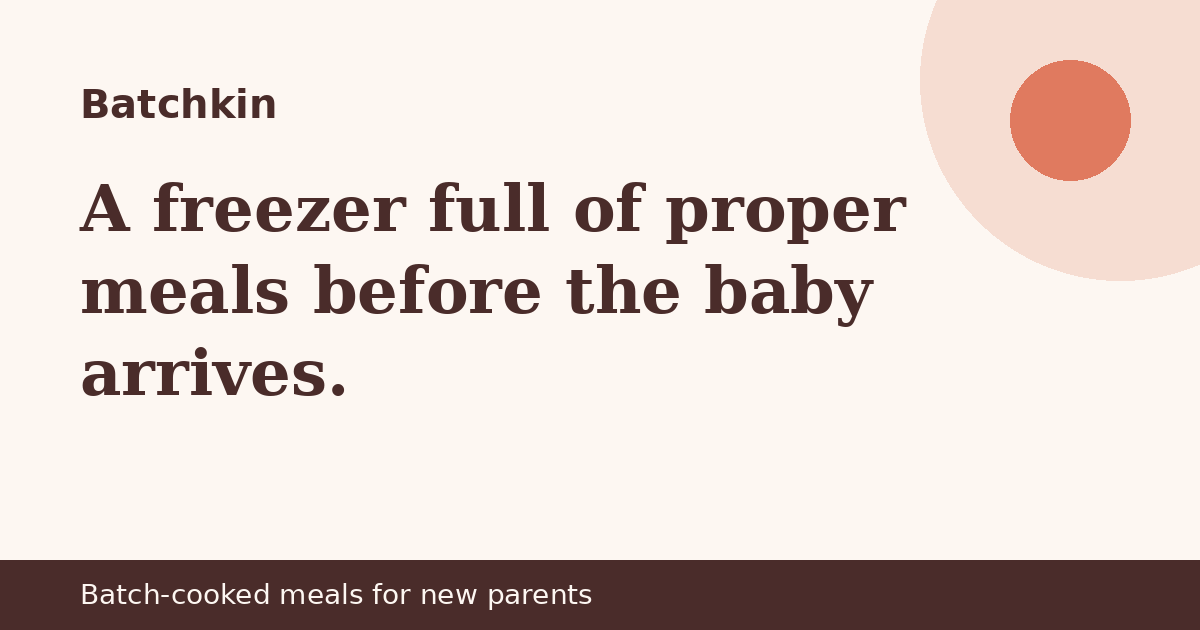
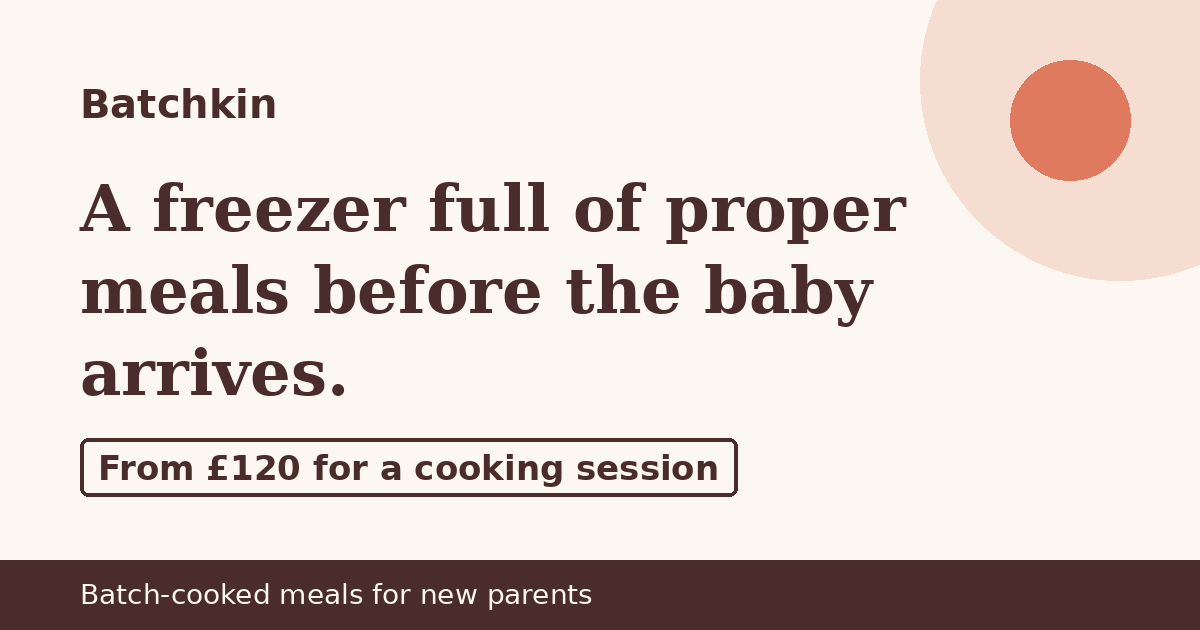
Publish site 2026-10-21 08:26 BST

Changed region(s): [[0.0617, 0.6937, 0.6167, 0.8143]]

diff --git a/index.html b/index.html
@@ -3,7 +3,7 @@
 <head>
 <meta charset="utf-8">
 <meta name="viewport" content="width=device-width, initial-scale=1">
-<meta http-equiv="Content-Security-Policy" content="default-src 'self'; img-src 'self' data: https://localreplyloop.goatcounter.com; style-src 'self'; script-src 'self'; font-src 'self'; connect-src 'self' https://formsubmit.co; form-action 'self'; base-uri 'self'; object-src 'none'">
+<meta http-equiv="Content-Security-Policy" content="default-src 'self'; img-src 'self' data: https://localreplyloop.goatcounter.com; style-src 'self'; script-src 'self'; font-src 'self'; connect-src 'self'; form-action 'self'; base-uri 'self'; object-src 'none'">
 <meta name="referrer" content="strict-origin-when-cross-origin">
 <title>Batchkin: A freezer full of proper meals before the baby arrives</title>
 <meta name="description" content="A home cook prepares a week of freezer-ready meals in your kitchen, labelled with contents and allergens.">
@@ -21,21 +21,14 @@
 </head>
 <body>
 <a class="skip" href="#main">Skip to content</a>
-<header><div class="wrap top"><a class="brand" href="./"><svg viewBox="0 0 64 64" aria-hidden="true" width="34" height="34"><rect width="64" height="64" rx="16" fill="#4A2C2A"/><text x="32" y="43" text-anchor="middle" font-family="Georgia, serif" font-weight="700" font-size="30" fill="#FDF7F2">B</text><circle cx="50" cy="50" r="6" fill="#E07A5F"/></svg>Batchkin</a><nav aria-label="Primary"><a href="#how">How it works</a><a href="#faq">Questions</a><a href="#contact">Contact</a></nav></div></header><section class="hero"><div class="wrap"><div><span class="draft">Taking enquiries ahead of launch; no bookings are confirmed yet. We&#x27;ll reply about availability.</span><br><span class="eyebrow">Local service · pre-launch · Batch-cooked meals for new parents</span><h1>A freezer full of proper meals before the baby arrives.</h1><p class="lede">We cook a week or two of freezer-ready dinners in your own kitchen, label every portion with its contents and allergens, and leave the kitchen clean. It also works as a gift from grandparents and friends.</p><div class="ctas"><a class="btn" href="#contact" data-cta="hero">Send an enquiry</a><a class="btn ghost" href="#faq" data-cta="hero-secondary">Questions</a></div></div><div class="art"><svg viewBox="0 0 400 400" role="img" aria-label="Decorative pattern" class="motif" preserveAspectRatio="xMidYMid slice"><rect x="30" y="330" width="58" height="40" fill="#F6DDD2"/><rect x="88" y="278" width="58" height="92" fill="#4A2C2A"/><rect x="146" y="226" width="58" height="144" fill="#F6DDD2"/><rect x="204" y="174" width="58" height="196" fill="#4A2C2A"/><rect x="262" y="122" width="58" height="248" fill="#F6DDD2"/><rect x="320" y="70" width="58" height="300" fill="#E07A5F"/></svg></div></div></section>
+<header><div class="wrap top"><a class="brand" href="./"><svg viewBox="0 0 64 64" aria-hidden="true" width="34" height="34"><rect width="64" height="64" rx="16" fill="#4A2C2A"/><text x="32" y="43" text-anchor="middle" font-family="Georgia, serif" font-weight="700" font-size="30" fill="#FDF7F2">B</text><circle cx="50" cy="50" r="6" fill="#E07A5F"/></svg>Batchkin</a><nav aria-label="Primary"><a href="#how">How it works</a><a href="#faq">Questions</a><a href="#contact">Contact</a></nav></div></header>
 <main id="main">
+<section class="hero"><div class="wrap"><div><span class="draft">Taking enquiries ahead of launch. No bookings are confirmed yet.</span><br><span class="eyebrow">Local service · pre-launch · Batch-cooked meals for new parents</span><h1>A freezer full of proper meals before the baby arrives.</h1><p class="lede">Once launched, we&#x27;ll cook a week or two of freezer-ready dinners in your own kitchen, label every portion with its contents and allergens, and leave the kitchen clean. It also works as a gift from grandparents and friends.</p><div class="ctas"><a class="btn" href="#contact" data-cta="hero">Send an enquiry</a><a class="btn ghost" href="#faq" data-cta="hero-secondary">Questions</a></div></div><div class="art"><svg viewBox="0 0 400 400" aria-hidden="true" focusable="false" class="motif"><rect x="100" y="300" width="200" height="64" rx="10" fill="#4A2C2A"/><rect x="88" y="288" width="224" height="16" rx="8" fill="#E07A5F"/><rect x="100" y="220" width="200" height="64" rx="10" fill="#F6DDD2"/><rect x="88" y="208" width="224" height="16" rx="8" fill="#E07A5F"/><rect x="100" y="140" width="200" height="64" rx="10" fill="#4A2C2A"/><rect x="88" y="128" width="224" height="16" rx="8" fill="#E07A5F"/><path d="M160 112 q-14 -20 0 -40 q14 -20 0 -40" fill="none" stroke="#4A2C2A" stroke-width="7" stroke-linecap="round" stroke-linejoin="round"/><path d="M200 112 q-14 -20 0 -40 q14 -20 0 -40" fill="none" stroke="#4A2C2A" stroke-width="7" stroke-linecap="round" stroke-linejoin="round"/><path d="M240 112 q-14 -20 0 -40 q14 -20 0 -40" fill="none" stroke="#4A2C2A" stroke-width="7" stroke-linecap="round" stroke-linejoin="round"/></svg></div></div></section>
 <section class="tint" id="how"><div class="wrap"><span class="eyebrow">How it works</span><h2>A home cook prepares a week of freezer-ready meals in your kitchen, labelled with contents and allergens.</h2><div class="steps"><div class="step"><h3>Choose a menu</h3><p>Pick from family dishes, with dietary needs and dislikes noted.</p></div><div class="step"><h3>We shop and cook</h3><p>Ingredients at cost with receipts. Cooking takes an afternoon.</p></div><div class="step"><h3>Labelled and frozen</h3><p>Every tub dated and labelled against the 14 allergens.</p></div></div></div></section>
-<section><div class="wrap"><span class="eyebrow">Who it is for</span><h2>For expecting parents and families buying a practical gift for them.</h2><div class="points"><div class="point"><h3>Allergens labelled</h3><p>Each portion marked against the 14 UK allergens.</p></div><div class="point"><h3>Cooked in your kitchen</h3><p>No commercial kitchen markup.</p></div><div class="point"><h3>Works as a gift</h3><p>Others can book it for you.</p></div></div></div></section>
-<section class="tint" id="price"><div class="wrap"><span class="eyebrow">Prices</span><div class="pricebox"><p class="price">From £120 for a cooking session plus ingredients at cost (guide price)</p><p>Guide price. Taking enquiries ahead of launch; no bookings are confirmed yet. We&#x27;ll confirm a fixed price and availability by email. Nothing is sold or paid for on this website.</p></div></div></section>
+<section><div class="wrap"><span class="eyebrow">Who it is for</span><h2>For expecting parents and families buying a practical gift for them.</h2><div class="points"><div class="point"><h3>Allergens labelled</h3><p>Each portion labelled with the 14 UK allergens it contains. Cooked in a home kitchen, so we can&#x27;t rule out traces.</p></div><div class="point"><h3>Cooked in your kitchen</h3><p>No commercial kitchen markup.</p></div><div class="point"><h3>Works as a gift</h3><p>Others can book it for you.</p></div></div></div></section>
+<section class="tint" id="price"><div class="wrap"><span class="eyebrow">Prices</span><div class="pricebox"><p class="price">From £120 for a cooking session plus ingredients at cost (guide price)</p><p>Guide price. Taking enquiries ahead of launch. No bookings are confirmed yet. Price and availability aren’t confirmed yet. Nothing is sold or paid for on this website.</p></div></div></section>
 <section id="faq"><div class="wrap"><span class="eyebrow">Questions</span><h2>Common questions</h2><details><summary>Are you registered as a food business?</summary><p>Not yet. We&#x27;re taking enquiries ahead of launch and won&#x27;t cook for anyone until registration with the local council is in place, as UK rules require.</p></details><details><summary>Can you do vegetarian, vegan or halal?</summary><p>Yes. Tell us in the form.</p></details><details><summary>Is it suitable for severe allergies?</summary><p>Your kitchen isn&#x27;t allergen-controlled, so we can&#x27;t guarantee no cross-contact. Talk to us first.</p></details><p class="fine" style="margin-top:18px">Batchkin is a home cooking service. We do not provide nutrition or medical advice.</p></div></section>
-<section class="tint" id="contact"><div class="wrap contact-grid"><div><span class="eyebrow">Contact</span><h2>Send an enquiry</h2><p>Batchkin is new and run by one person. Every message is read and answered by email, usually within two working days.</p><p>Email: <a href="mailto:localreply+batchkin@agentmail.to">localreply+batchkin@agentmail.to</a></p></div><form class="form" data-contact data-formsubmit="localreply+batchkin@agentmail.to" data-email="localreply+batchkin@agentmail.to" data-subject="Batchkin enquiry" novalidate>
-<div><label for="f-name">Your name</label><input id="f-name" name="name" autocomplete="name" required></div>
-<div><label for="f-email">Email</label><input id="f-email" name="email" type="email" autocomplete="email" required></div>
-<div><label for="f-postcode">Postcode or town</label><input id="f-postcode" name="postcode" autocomplete="postal-code"></div><div><label for="f-plan">About</label><select id="f-plan" name="plan"><option value="One week of meals">One week of meals</option><option value="Two weeks of meals">Two weeks of meals</option><option value="Buying as a gift">Buying as a gift</option></select></div>
-<div><label for="f-message">Message</label><textarea id="f-message" name="message"></textarea></div>
-<p class="draft">Taking enquiries ahead of launch; no bookings are confirmed yet. We&#x27;ll reply about availability.</p><p class="hint">Your message goes to our inbox through FormSubmit (formsubmit.co), our form-delivery provider. If that fails, your own email app opens instead. See our <a href="privacy.html">privacy notice</a>.</p>
-<button class="btn" type="submit">Send an enquiry</button>
-<p class="form-status" role="status" aria-live="polite"></p>
-</form></div></section>
+<section class="tint" id="contact"><div class="wrap contact-grid"><div><span class="eyebrow">Contact</span><h2>Send an enquiry</h2><p>Batchkin is new and run by one person. Messages go to our inbox. We can’t promise a reply or a timeframe yet.</p><p>Please don&#x27;t send medical or allergy details, or a baby&#x27;s or child&#x27;s details, by email. Just tell us you have dietary needs and we&#x27;ll discuss them when we speak.</p><p>Email: <a href="mailto:localreply+batchkin@agentmail.to">localreply+batchkin@agentmail.to</a></p></div><div class="form contact-mail"><p><a class="btn" href="mailto:localreply+batchkin@agentmail.to?subject=%5BBatchkin%5D%20Enquiry" data-cta="enquire">Email Batchkin</a></p><p class="draft">Taking enquiries ahead of launch. No bookings are confirmed yet.</p><p class="hint">This opens your own email app. Nothing is sent through this website. See our <a href="privacy.html">privacy notice</a>.</p></div></div></section>
 </main><footer><div class="wrap"><p>Operated by a UK sole trader trading as Batchkin. Contact: localreply+batchkin@agentmail.to. Postal address available on written request.</p>
 <p><a href="privacy.html">Privacy</a><a href="terms.html">Terms</a><a href="./#contact">Contact</a></p>
 <p class="fine">Batchkin is a home cooking service. We do not provide nutrition or medical advice.</p></div></footer>

diff --git a/assets/site.css b/assets/site.css
@@ -1,4 +1,4 @@
-:root{--ink:#4A2C2A;--paper:#FDF7F2;--acc:#E07A5F;--acc-text:#C14626;--on-acc:#111111;--soft:#F6DDD2;--on-ink:#FDF7F2;--r:22px;--br:22px;--head:Georgia, 'Times New Roman', serif;--body:system-ui, -apple-system, 'Segoe UI', Roboto, sans-serif}
+:root{--ink:#4A2C2A;--paper:#FDF7F2;--acc:#E07A5F;--acc-text:#A03A1F;--on-acc:#111111;--acc-btn:#E07A5F;--soft:#F6DDD2;--on-ink:#FDF7F2;--r:22px;--br:22px;--head:Georgia, 'Times New Roman', serif;--body:system-ui, -apple-system, 'Segoe UI', Roboto, sans-serif}
 *,*::before,*::after{box-sizing:border-box}html{scroll-behavior:smooth}@media (prefers-reduced-motion:reduce){html{scroll-behavior:auto}*{transition:none!important}}
 body{margin:0;font-family:var(--body);color:var(--ink);background:var(--paper);line-height:1.6;font-size:17px;-webkit-font-smoothing:antialiased}
 h1,h2,h3{font-family:var(--head);line-height:1.15;margin:0 0 .5em;letter-spacing:-.01em}h1{font-size:clamp(2.1rem,5vw,3.6rem)}h2{font-size:clamp(1.5rem,3vw,2.2rem)}h3{font-size:1.15rem}
@@ -7,11 +7,11 @@ p{margin:0 0 1em}a{color:var(--ink);text-decoration-color:var(--acc);text-underl
 :focus-visible{outline:3px solid var(--acc);outline-offset:2px}
 .top{display:flex;align-items:center;justify-content:space-between;padding:18px 0;gap:16px}.brand{display:flex;align-items:center;gap:10px;font-family:var(--head);font-weight:700;font-size:1.25rem;text-decoration:none}
 .top nav a{margin-left:18px;font-size:.95rem;text-decoration:none}.top nav a:hover{text-decoration:underline}
-.btn{display:inline-block;background:var(--acc);color:var(--on-acc);padding:13px 22px;border-radius:var(--br);font-weight:600;text-decoration:none;border:2px solid var(--acc);cursor:pointer;font:inherit;font-weight:600}
-.btn:hover{filter:brightness(.94)}.btn.ghost{background:transparent;color:var(--ink);border-color:var(--ink)}
+.btn{display:inline-block;background:var(--acc-btn);color:var(--on-acc);padding:13px 22px;border-radius:var(--br);font-weight:600;text-decoration:none;border:2px solid var(--acc-btn);cursor:pointer;font:inherit;font-weight:600}
+.btn:hover{filter:none;box-shadow:inset 0 0 0 2px currentColor}.btn.ghost{background:transparent;color:var(--ink);border-color:var(--ink)}
 .eyebrow{display:inline-block;font-size:.8rem;letter-spacing:.12em;text-transform:uppercase;font-weight:600;color:var(--acc-text);margin-bottom:12px}
 .hero{padding:48px 0 64px}.hero .lede{font-size:1.15rem;max-width:40em}.ctas{display:flex;gap:12px;flex-wrap:wrap;margin-top:22px}
-.motif{width:100%;height:auto;max-width:420px;display:block}
+.motif{width:100%;height:auto;max-width:420px;display:block}.art{margin:0}
 .draft{display:inline-block;background:var(--soft);border:1px dashed var(--ink);padding:3px 10px;border-radius:999px;font-size:.82rem;font-weight:600;margin-bottom:14px}
 section{padding:56px 0}.tint{background:var(--soft)}
 .steps{display:grid;grid-template-columns:repeat(auto-fit,minmax(220px,1fr));gap:22px;counter-reset:s}
@@ -22,11 +22,11 @@ section{padding:56px 0}.tint{background:var(--soft)}
 details{border-bottom:1px solid color-mix(in srgb,var(--ink) 18%,transparent);padding:14px 0}summary{cursor:pointer;font-weight:600}details p{margin-top:10px}
 .form{display:grid;gap:14px;max-width:620px}.form label{font-weight:600;font-size:.95rem;display:block;margin-bottom:4px}
 .form input,.form textarea,.form select{width:100%;padding:12px;border:1.5px solid color-mix(in srgb,var(--ink) 40%,transparent);border-radius:calc(var(--r)/2);font:inherit;background:#fff;color:#111}
-.form textarea{min-height:120px}.hint,.fine{font-size:.88rem;opacity:.85}.form-status{font-weight:600}
-.contact-grid{display:grid;grid-template-columns:1fr 1.2fr;gap:40px}@media(max-width:800px){.contact-grid{grid-template-columns:1fr}.top nav{display:none}}
+.form textarea{min-height:120px}.hint,.fine{font-size:.88rem}.form-status{font-weight:600}
+.contact-grid{display:grid;grid-template-columns:1fr 1.2fr;gap:40px}@media(max-width:800px){.contact-grid{grid-template-columns:1fr}.top nav a:not([href="#contact"]){display:none}.top nav a{margin-left:0;padding:10px 0;font-weight:600}}
 footer{padding:36px 0 48px;font-size:.9rem;border-top:1px solid color-mix(in srgb,var(--ink) 15%,transparent)}footer a{margin-right:14px}
 .tool{background:var(--paper);border:2px solid var(--ink);border-radius:var(--r);padding:26px;max-width:640px}.tool .row{display:grid;grid-template-columns:1fr 140px;gap:12px;align-items:center;margin-bottom:10px}
 .tool input[type=number]{padding:10px;border:1.5px solid var(--ink);border-radius:8px;font:inherit;width:100%}.result{margin-top:16px;padding:16px;background:var(--soft);border-radius:calc(var(--r)/2);min-height:3em}
 .check h3{margin-top:18px}.check label{display:flex;gap:10px;align-items:flex-start;padding:6px 0}.check input{width:20px;height:20px;accent-color:var(--acc)}
 .legal{max-width:760px}.legal h2{font-size:1.3rem;margin-top:1.6em}
-.hero .wrap{display:grid;grid-template-columns:1.25fr .85fr;gap:48px;align-items:center}@media(max-width:800px){.hero .wrap{grid-template-columns:1fr}.hero .art{max-width:280px}}
+.hero .wrap{display:grid;grid-template-columns:1.25fr .85fr;gap:48px;align-items:center}@media(max-width:800px){.hero .wrap{grid-template-columns:1fr}.hero .art{max-width:180px;margin-top:-8px}}

diff --git a/privacy.html b/privacy.html
@@ -3,7 +3,7 @@
 <head>
 <meta charset="utf-8">
 <meta name="viewport" content="width=device-width, initial-scale=1">
-<meta http-equiv="Content-Security-Policy" content="default-src 'self'; img-src 'self' data: https://localreplyloop.goatcounter.com; style-src 'self'; script-src 'self'; font-src 'self'; connect-src 'self' https://formsubmit.co; form-action 'self'; base-uri 'self'; object-src 'none'">
+<meta http-equiv="Content-Security-Policy" content="default-src 'self'; img-src 'self' data: https://localreplyloop.goatcounter.com; style-src 'self'; script-src 'self'; font-src 'self'; connect-src 'self'; form-action 'self'; base-uri 'self'; object-src 'none'">
 <meta name="referrer" content="strict-origin-when-cross-origin">
 <title>Privacy notice | Batchkin</title>
 <meta name="description" content="Privacy notice for Batchkin.">
@@ -21,13 +21,13 @@
 </head>
 <body>
 <a class="skip" href="#main">Skip to content</a>
-<header><div class="wrap top"><a class="brand" href="./"><svg viewBox="0 0 64 64" aria-hidden="true" width="34" height="34"><rect width="64" height="64" rx="16" fill="#4A2C2A"/><text x="32" y="43" text-anchor="middle" font-family="Georgia, serif" font-weight="700" font-size="30" fill="#FDF7F2">B</text><circle cx="50" cy="50" r="6" fill="#E07A5F"/></svg>Batchkin</a><nav aria-label="Primary"><a href="#how">How it works</a><a href="#faq">Questions</a><a href="#contact">Contact</a></nav></div></header><main id="main"><section><div class="wrap legal"><h1>Privacy notice</h1><p class="fine">Last updated 19 October 2026</p>
+<header><div class="wrap top"><a class="brand" href="./"><svg viewBox="0 0 64 64" aria-hidden="true" width="34" height="34"><rect width="64" height="64" rx="16" fill="#4A2C2A"/><text x="32" y="43" text-anchor="middle" font-family="Georgia, serif" font-weight="700" font-size="30" fill="#FDF7F2">B</text><circle cx="50" cy="50" r="6" fill="#E07A5F"/></svg>Batchkin</a><nav aria-label="Primary"><a href="#how">How it works</a><a href="#faq">Questions</a><a href="#contact">Contact</a></nav></div></header><main id="main"><section><div class="wrap legal"><h1>Privacy notice</h1><p class="fine">Last updated 20 October 2026</p>
 <p><span>Operated by a UK sole trader trading as Batchkin. Contact: localreply+batchkin@agentmail.to. Postal address available on written request.</span> We are the controller for the personal data described here. For anything in this notice, email <a href="mailto:localreply+batchkin@agentmail.to">localreply+batchkin@agentmail.to</a> with “Batchkin” in the subject line.</p>
-<h2>What we collect</h2><p>If you use the form or email us, we receive your name, email address, anything you write in your message and, if you give it, your postcode or town. We use it only to reply to you and, if you ask for it, to deal with your enquiry.</p>
+<h2>What we collect</h2><p>If you email us, we receive your name, email address, anything you write in your message and, if you give it, your postcode or town. We use it only to reply to you and, if you ask for it, to deal with your enquiry.</p>
 <h2>Lawful basis</h2><p>Replying to an enquiry you send us is in our legitimate interests, or steps taken at your request before any agreement (UK GDPR Article 6(1)(f) and 6(1)(b)).</p>
-<h2>Who processes it for us</h2><p>FormSubmit (formsubmit.co) delivers form messages to our inbox. AgentMail (agentmail.to) hosts the inbox. GitHub Pages hosts this website and may log technical data such as IP addresses for security. Some of these providers process data outside the UK under their own safeguards.</p>
+<h2>Who processes it for us</h2><p>AgentMail (agentmail.to) hosts our inbox. GitHub Pages hosts this website and may log technical data such as IP addresses for security. Some of these providers process data outside the UK under their own safeguards.</p>
 <h2>Cookies and analytics</h2><p>We set no cookies. We count page views with GoatCounter, which records the page, referrer and screen size but no cookies and no personal profile. It does not run if your browser sends Do Not Track or Global Privacy Control.</p>
-<h2>How long we keep it</h2><p>We keep enquiry emails for up to 12 months after our last contact, unless you become a customer, in which case we keep records as the law requires.</p>
+<h2>How long we keep it</h2><p>We delete enquiry and order data 30 days after our last contact or after delivery. We keep only the basic order record that tax law requires.</p>
 <h2>Your rights</h2><p>You can ask for a copy of your data, ask us to correct or delete it, or object to how we use it, by emailing <a href="mailto:localreply+batchkin@agentmail.to">localreply+batchkin@agentmail.to</a>. You can complain to the Information Commissioner's Office (ico.org.uk).</p></div></section></main><footer><div class="wrap"><p>Operated by a UK sole trader trading as Batchkin. Contact: localreply+batchkin@agentmail.to. Postal address available on written request.</p>
 <p><a href="privacy.html">Privacy</a><a href="terms.html">Terms</a><a href="./#contact">Contact</a></p>
 <p class="fine">Batchkin is a home cooking service. We do not provide nutrition or medical advice.</p></div></footer>

diff --git a/_shared/kit.js b/_shared/kit.js
@@ -69,24 +69,8 @@
     form.addEventListener("submit", function (e) {
       e.preventDefault();
       if (!form.reportValidity()) return;
-      // 2026-10-14: if data-formsubmit is set, deliver via FormSubmit.co straight to the brand inbox; mailto stays as fallback.
-      var fsTok = form.getAttribute("data-formsubmit");
-      if (fsTok && !form.__fsFallback && window.fetch) {
-        var fd = new FormData(form), payload = {}, st = form.querySelector("[role=status]");
-        fd.forEach(function (v, k) { if (k !== "consent") payload[k] = String(v); });
-        payload._subject = (form.getAttribute("data-subject") || "Enquiry") + (payload.business ? " — " + payload.business : "");
-        if (payload.email) payload._replyto = payload.email;
-        payload._captcha = "false"; payload._template = "table";
-        fetch("https://formsubmit.co/ajax/" + fsTok, { method: "POST", headers: { "Content-Type": "application/json", "Accept": "application/json" }, body: JSON.stringify(payload) })
-          .then(function (r) { return r.json(); })
-          .then(function (j) {
-            if (String(j.success) !== "true") throw new Error("fs");
-            if (st) { st.textContent = "Thanks" + (payload.name ? ", " + payload.name.trim().split(" ")[0] : "") + " — your message has been sent. We reply by email."; st.classList.add("is-visible"); }
-            track("contact_sent", { plan: payload.plan || null }); form.reset();
-          })
-          .catch(function () { form.__fsFallback = true; if (st) { st.textContent = "Sending didn't work — opening your email app instead."; st.classList.add("is-visible"); } form.requestSubmit ? form.requestSubmit() : form.dispatchEvent(new Event("submit", { cancelable: true })); });
-        return;
-      }
+      // The form only composes an email
+      // in the visitor's own mail app; nothing is sent through any third-party form processor.
       var to = form.getAttribute("data-email") || cfg.contactEmail;
       var data = new FormData(form);
       var name = (data.get("name") || "").toString().trim();

diff --git a/_shared/kit.css b/_shared/kit.css
@@ -73,6 +73,7 @@ p { margin: 0; }
 .mobile-nav.is-open { display: block; }
 .mobile-nav a { display: flex; align-items: center; min-height: 52px; padding: 0 1.25rem; color: var(--text); text-decoration: none; font-weight: 500; border-bottom: 1px solid var(--line); }
 .mobile-nav .btn { margin: 1rem 1.25rem 1.25rem; display: flex; }
+.mobile-nav .btn--primary, .mobile-nav .btn--primary:hover { color: #fff; }
 @media (min-width: 60rem) {
   .nav { display: flex; }
   .site-header .header-cta { display: inline-flex; margin-left: .75rem; }
@@ -329,3 +330,8 @@ html[data-paused="true"] [data-cta="checkout"] { pointer-events: none; opacity: 
 @media (min-width: 60rem) { .pricing.pricing--single { grid-template-columns: 1fr; } }
 .tier-more { max-width: 64rem; margin: 1.25rem auto 0; text-align: center; color: var(--muted); font-size: .9375rem; line-height: 1.6; }
 .tier-more a { font-weight: 600; white-space: nowrap; }
+
+.site-header .header-link { display: inline-flex; color: var(--ink); font-weight: 600; text-decoration: underline; text-underline-offset: .2em; min-height: 44px; align-items: center; padding: 0 .25rem; }
+@media (max-width: 59.99rem) { .site-header .header-link { display: none; } }
+.btn-row .text-link { display: inline-flex; align-items: center; min-height: 48px; padding: 0 .25rem; color: var(--ink); font-weight: 600; text-decoration: underline; text-underline-offset: .2em; }
+.btn-row .text-link:hover, .site-header .header-link:hover { color: var(--accent-strong); }

diff --git a/404.html b/404.html
@@ -3,7 +3,7 @@
 <head>
 <meta charset="utf-8">
 <meta name="viewport" content="width=device-width, initial-scale=1">
-<meta http-equiv="Content-Security-Policy" content="default-src 'self'; img-src 'self' data: https://localreplyloop.goatcounter.com; style-src 'self'; script-src 'self'; font-src 'self'; connect-src 'self' https://formsubmit.co; form-action 'self'; base-uri 'self'; object-src 'none'">
+<meta http-equiv="Content-Security-Policy" content="default-src 'self'; img-src 'self' data: https://localreplyloop.goatcounter.com; style-src 'self'; script-src 'self'; font-src 'self'; connect-src 'self'; form-action 'self'; base-uri 'self'; object-src 'none'">
 <meta name="referrer" content="strict-origin-when-cross-origin">
 <title>Page not found | Batchkin</title>
 <meta name="description" content="Page not found for Batchkin.">

diff --git a/terms.html b/terms.html
@@ -3,7 +3,7 @@
 <head>
 <meta charset="utf-8">
 <meta name="viewport" content="width=device-width, initial-scale=1">
-<meta http-equiv="Content-Security-Policy" content="default-src 'self'; img-src 'self' data: https://localreplyloop.goatcounter.com; style-src 'self'; script-src 'self'; font-src 'self'; connect-src 'self' https://formsubmit.co; form-action 'self'; base-uri 'self'; object-src 'none'">
+<meta http-equiv="Content-Security-Policy" content="default-src 'self'; img-src 'self' data: https://localreplyloop.goatcounter.com; style-src 'self'; script-src 'self'; font-src 'self'; connect-src 'self'; form-action 'self'; base-uri 'self'; object-src 'none'">
 <meta name="referrer" content="strict-origin-when-cross-origin">
 <title>Terms of use | Batchkin</title>
 <meta name="description" content="Terms of use for Batchkin.">
